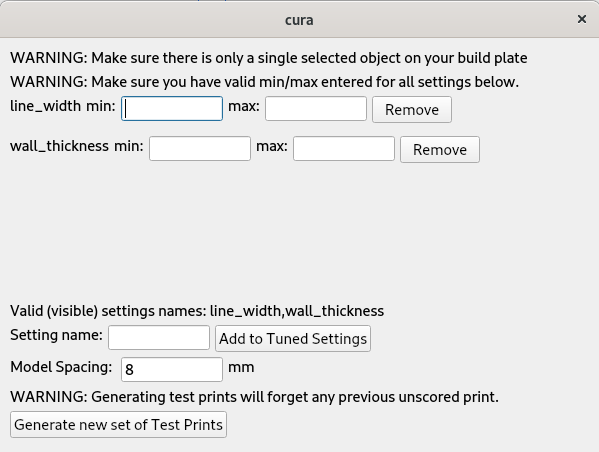
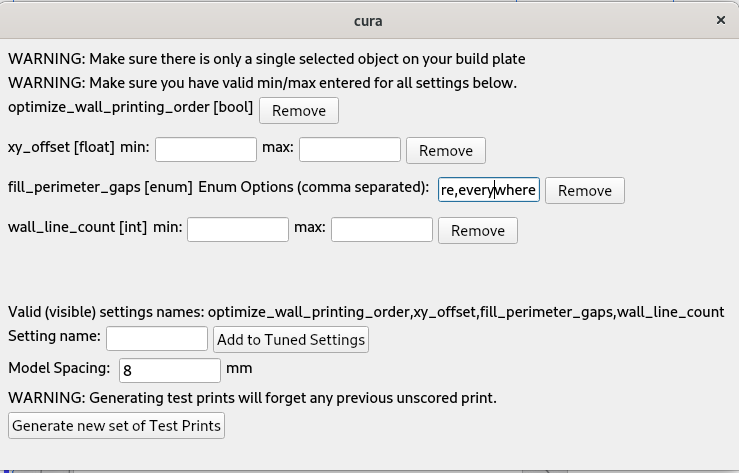
Add support for non-float options, add more error checking.

diff --git a/GeneratePrints.qml b/GeneratePrints.qml
@@ -12,6 +12,9 @@ UM.Dialog
     minimumWidth: 200
     minimumHeight: 200
 
+    // Prevent ENTER from closing the dialog
+    function accept() {
+    }
     Column {
         spacing: 5
 
@@ -29,23 +32,37 @@ UM.Dialog
                 spacing: 5
                 height: 40
                 Label {
-                    text: name
+                    text: name + " [" + type + "]"
                 }
                 Label {
                     text: "min:"
+                    visible: type == "int" || type == "float"
                 }
                 TextField {
                     id: min_box
                     text: min
                     onTextChanged: min = text
+                    visible: type == "int" || type == "float"
                 }
                 Label {
                     text: "max:"
+                    visible: type == "int" || type == "float"
                 }
                 TextField {
                     id: max_box
                     text: max
                     onTextChanged: max = text
+                    visible: type == "int" || type == "float"
+                }
+                Label {
+                    text: "Enum Options (comma separated): "
+                    visible: type == "enum"
+                }
+                TextField {
+                    id: choices_box
+                    text: choices
+                    onTextChanged: choices = text
+                    visible: type == "enum"
                 }
                 Button {
                     id: remove_button
@@ -75,7 +92,12 @@ UM.Dialog
                 onClicked: {
                     if (manager.validKeys.includes(setting_name.text)) {
                         if(!listview.model.contains("name", setting_name.text)) {
-                            listview.model.append({ "name": setting_name.text, "min": "", "max":""})
+                            listview.model.append({
+                                "name": setting_name.text,
+                                "type": manager.getSettingsType(setting_name.text),
+                                "min": "",
+                                "max":"",
+                                "choices": manager.getEnumSettingsOptions(setting_name.text).join()})
                         }
                     }
                  }
@@ -100,8 +122,10 @@ UM.Dialog
         Button {
             text: "Generate new set of Test Prints"
             onClicked: {
-                manager.generatePrints(model_spacing.text)
-                base.close()
+                if(manager.validGeneratePrintOptions()) {
+                    manager.generatePrints(model_spacing.text)
+                    base.close()
+                }
             }
         }
     }

diff --git a/PrintunaExtension.py b/PrintunaExtension.py
@@ -33,7 +33,7 @@ class PrintunaExtension(Extension, QObject):
 
         self._application = Application.getInstance()
 
-        self._parameters_list_model = GenericListModel(["name", "min", "max"])
+        self._parameters_list_model = GenericListModel(["name", "type", "min", "max", "choices"])
         self._active_trials_model = GenericListModel(["id", "score"])
         self.optuna_study = None
         self.resetStudy()
@@ -60,7 +60,12 @@ class PrintunaExtension(Extension, QObject):
         # If none are selected, prefill with all valid settings
         if len(self._parameters_list_model.items) == 0:
             for key in self.validKeys:
-                self._parameters_list_model.append({"name": key, "min": "", "max": ""})
+                self._parameters_list_model.append(
+                    {"name": key,
+                     "type": self.getSettingsType(key),
+                     "min": "",
+                     "max": "",
+                     "choices": ','.join(self.getEnumSettingsOptions(key))})
         self.generate_prints_window.show()
 
     def configureSingleObject(self, node):
@@ -69,9 +74,17 @@ class PrintunaExtension(Extension, QObject):
         self._active_trials_model.append({"id": trial.number, "score": ""})
         for setting in self._parameters_list_model.items:
             name = setting["name"]
-            min = float(setting["min"])
-            max = float(setting["max"])
-            value = trial.suggest_float(name, min, max)
+            type = setting["type"]
+
+            if type == "float":
+                value = trial.suggest_float(name, float(setting["min"]), float(setting["max"]))
+            elif type == "int":
+                value = trial.suggest_int(name, int(setting["min"]), int(setting["max"]))
+            elif type == "enum":
+                choices = [s.strip() for s in setting["choices"].split(',')]
+                value = trial.suggest_categorical(name, choices)
+            elif type == "bool":
+                value = trial.suggest_categorical(name, [False, True])
             container.setProperty(name, "value", value)
 
     @pyqtSlot(str)
@@ -185,5 +198,40 @@ class PrintunaExtension(Extension, QObject):
     def validKeys(self):
         nodes = self._getAllSelectedNodes()
         if nodes:
-            return list(self._getAllSelectedNodes()[0].callDecoration('getStack').getContainer(0).getAllKeys())
+            return list(nodes[0].callDecoration('getStack').getContainer(0).getAllKeys())
         return []
+
+    @pyqtSlot(str, result="QString")
+    def getSettingsType(self, key):
+        nodes = self._getAllSelectedNodes()
+        if nodes:
+            return nodes[0].callDecoration('getStack').getSettingDefinition(key).type
+        return ""
+
+    @pyqtSlot(str, result='QStringList')
+    def getEnumSettingsOptions(self, key):
+        nodes = self._getAllSelectedNodes()
+        if nodes:
+            return list(nodes[0].callDecoration('getStack').getSettingDefinition(key).options.keys())
+        return []
+
+    @pyqtSlot(result='bool')
+    def validGeneratePrintOptions(self):
+        try:
+            for setting in self._parameters_list_model.items:
+                name = setting["name"]
+                type = setting["type"]
+                if type == "float":
+                    float(setting["min"])
+                    float(setting["max"])
+                elif type == "int":
+                    int(setting["min"])
+                    int(setting["max"])
+                elif type == "enum":
+                    choices = [s.strip() for s in setting["choices"].split(',')]
+                    for choice in choices:
+                        if choice not in self.getEnumSettingsOptions(name):
+                            return False
+        except ValueError:
+            return False
+        return True

diff --git a/GenericListModel.py b/GenericListModel.py
@@ -46,6 +46,7 @@ class GenericListModel(QtCore.QAbstractListModel):
     def roleNames(self):
         return {key: value.encode('utf-8') for key, value in enumerate(self.schema)}
 
+    @pyqtSlot(str, str, result="bool")
     def contains(self, key, value):
         for item in self.items:
             if item[key] == value:

diff --git a/README.md b/README.md
@@ -46,7 +46,8 @@ To do so, select the test object, click the Per Model Settings tool on the lefth
 
 ![](doc/perobject_settings.png)
 
-In the window that opens, check all of the settings you wish to tune.  
+In the window that opens, check all of the settings you wish to tune.  Be careful not to try tuning multiple settings
+at the same time where one is computed based on the other, e.g. "Wall Line Count" and "Wall Thickness".
 
 Note that this means that any setting which cannot be controlled per-model (such as temperature and retraction) 
 **cannot be tuned by PrinTuna**.  If this makes you sad, complain on [this Cura issue](https://github.com/Ultimaker/Cura/issues/3193).
@@ -62,18 +63,20 @@ Select the "Generate Prints" menu.  This will pop open the following dialog box:
 
 ![](doc/generate_prints.png)
 
-Now, we need to configure which settings we want printuna to tune. By default printuna will tune *all* visible
-per-object settings (in the screenshot above, this is "wall_thickness" and "line_width").
+Now, we need to configure which settings we want PrinTuna to tune. By default printuna will tune *all* visible
+per-object settings (in the screenshot above, this is "optimize_wall_printing_order", "xy_offset", 
+"fill_perimeter_gaps", and "wall_line_count").
 
-We need to make sure to enter valid min/max values for each setting we want to tune or it will crash 
-(don't leave those boxes empty!).
-
-PrinTuna only supports tuning floating point settings currently. Please complain in a bug report if this upsets you.
+We need to make sure to enter valid min/max values (for integer and float settings), and valid comma separated lists of
+enum options (for enum settings).
 
 Once you have chosen the settings/ranges you want to tune, click the "Generate new set of Test Prints" button. You
 should now see your model tiled on the build surface, with each copy having different settings:
 
 ![](doc/benchy_grid.png)
+
+If the "Generate new st of Test Prints" button is not working for you, that means that you have entered invalid options
+above.
 
 ### 3. Print your parts
 Now, slice your models, and print them on your 3D printer.  Remember to keep track of exactly the location of each model
